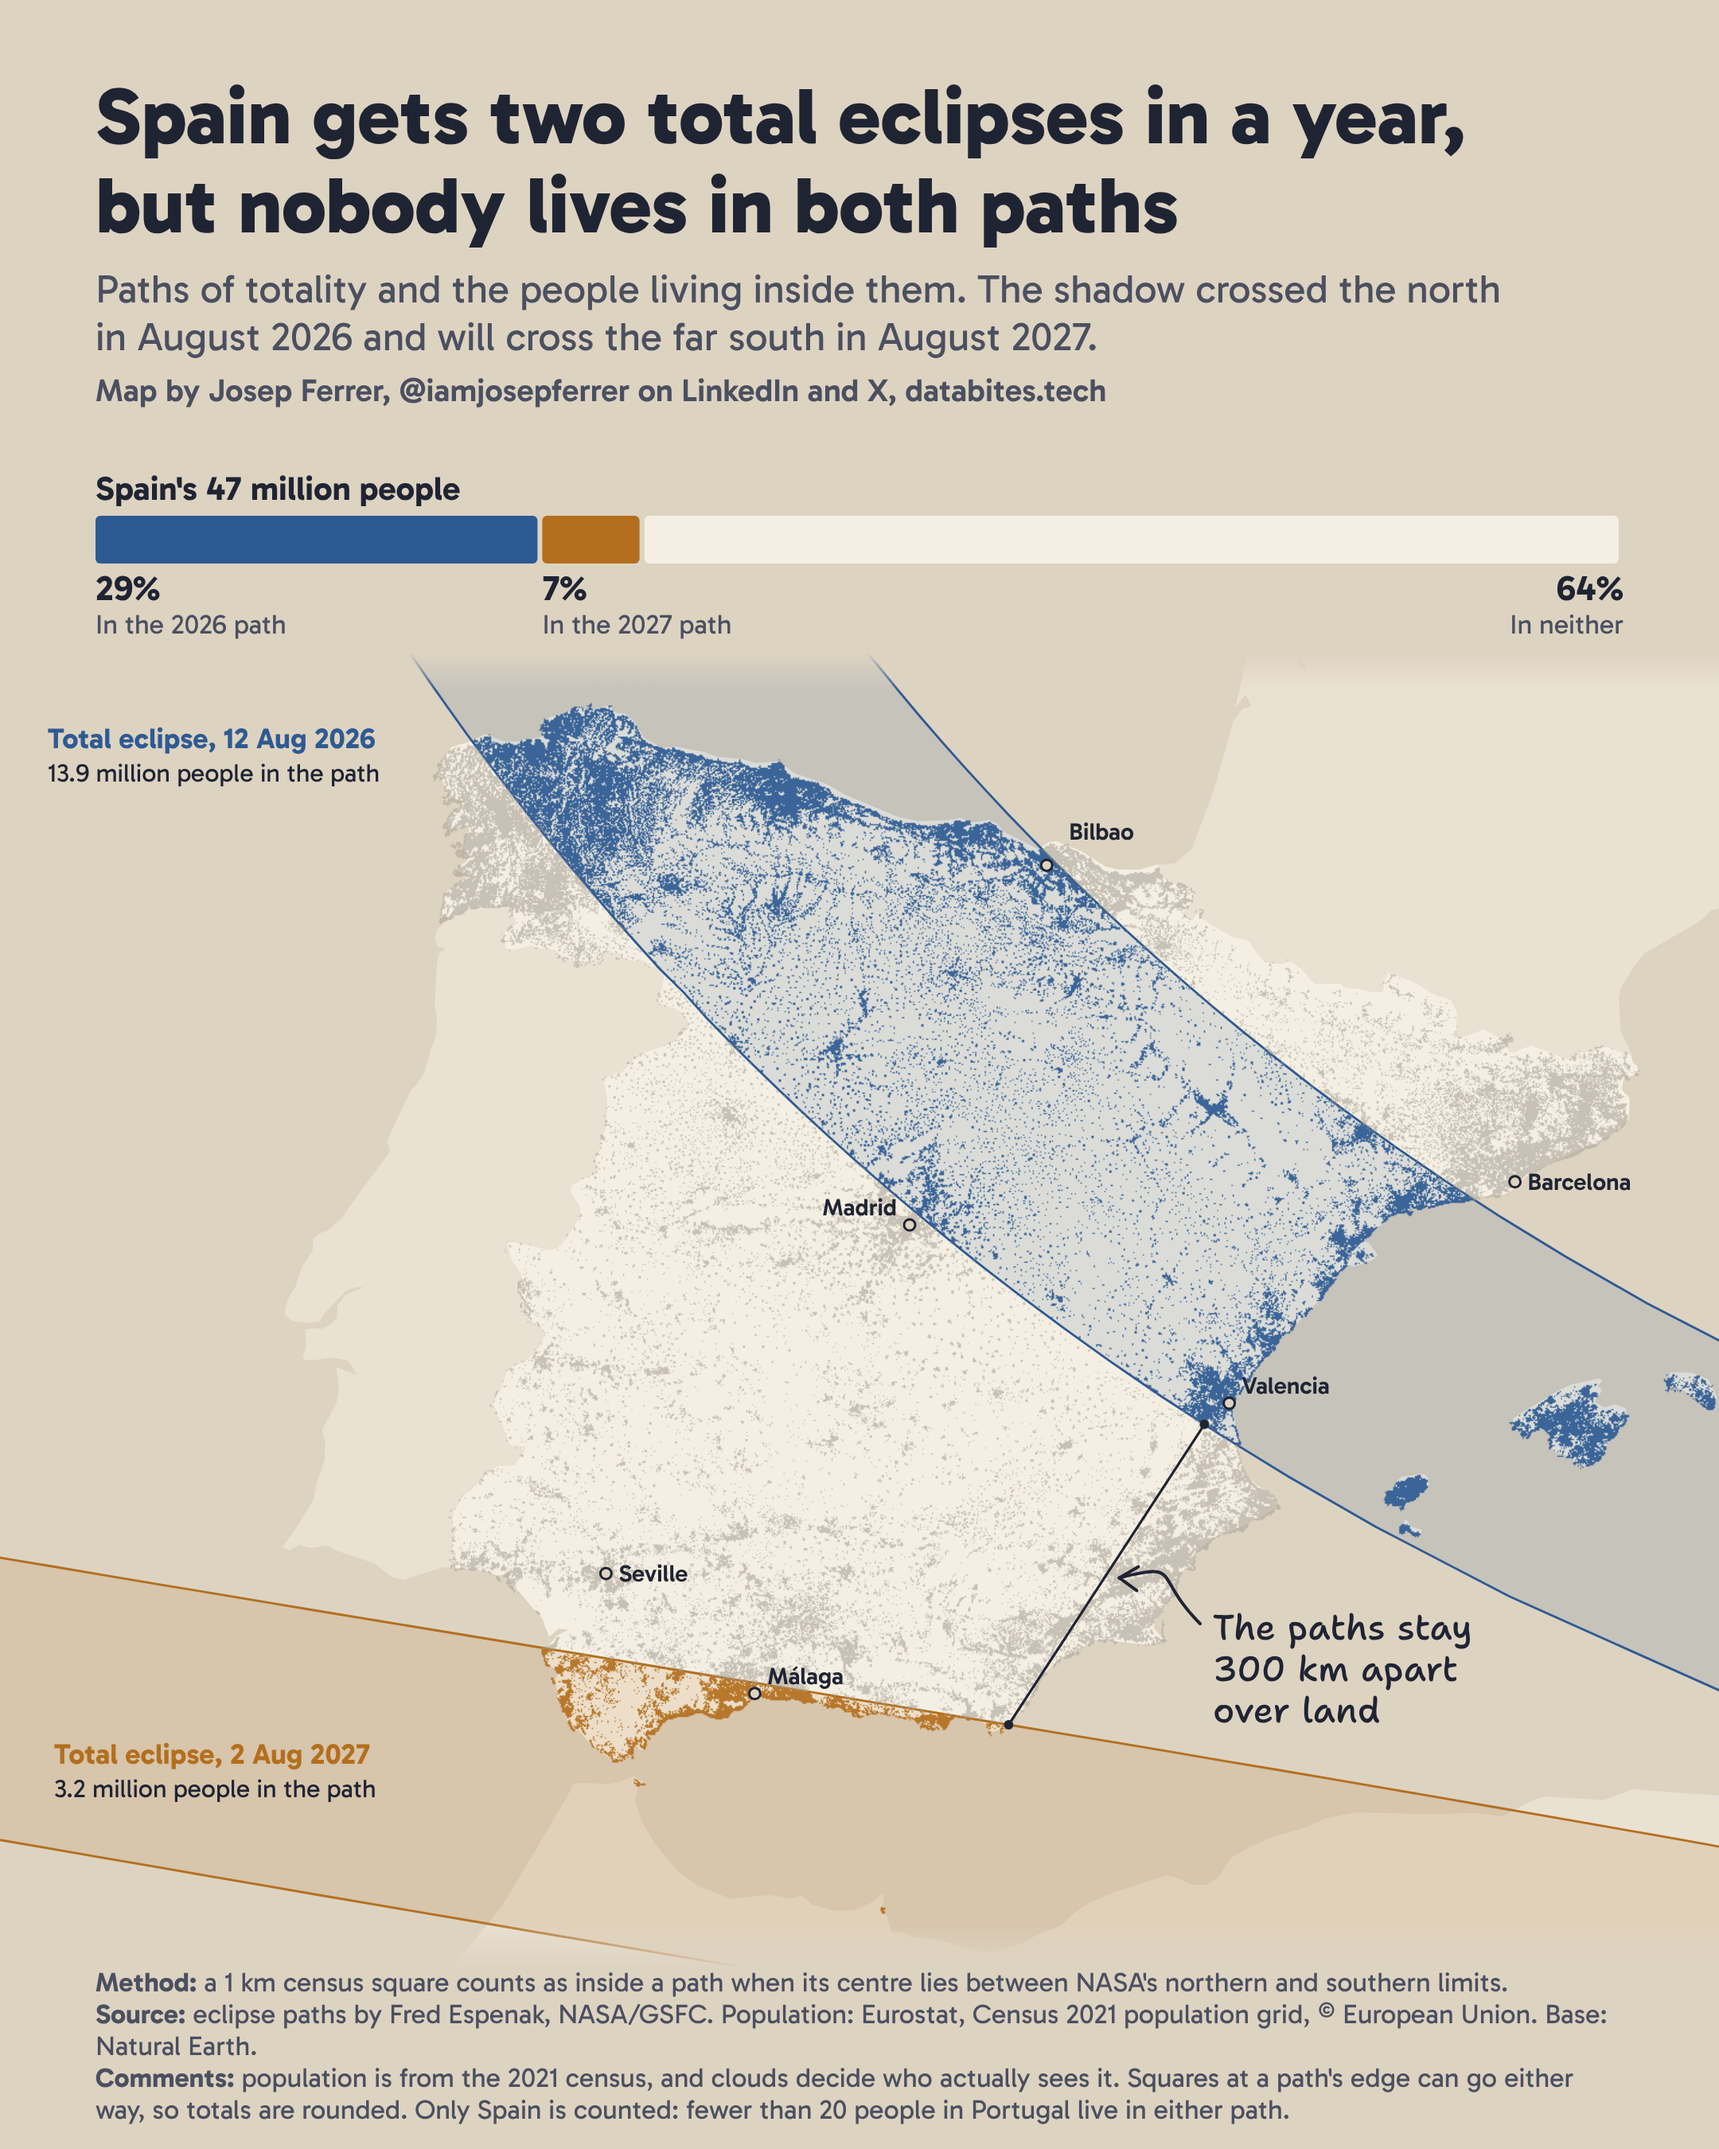
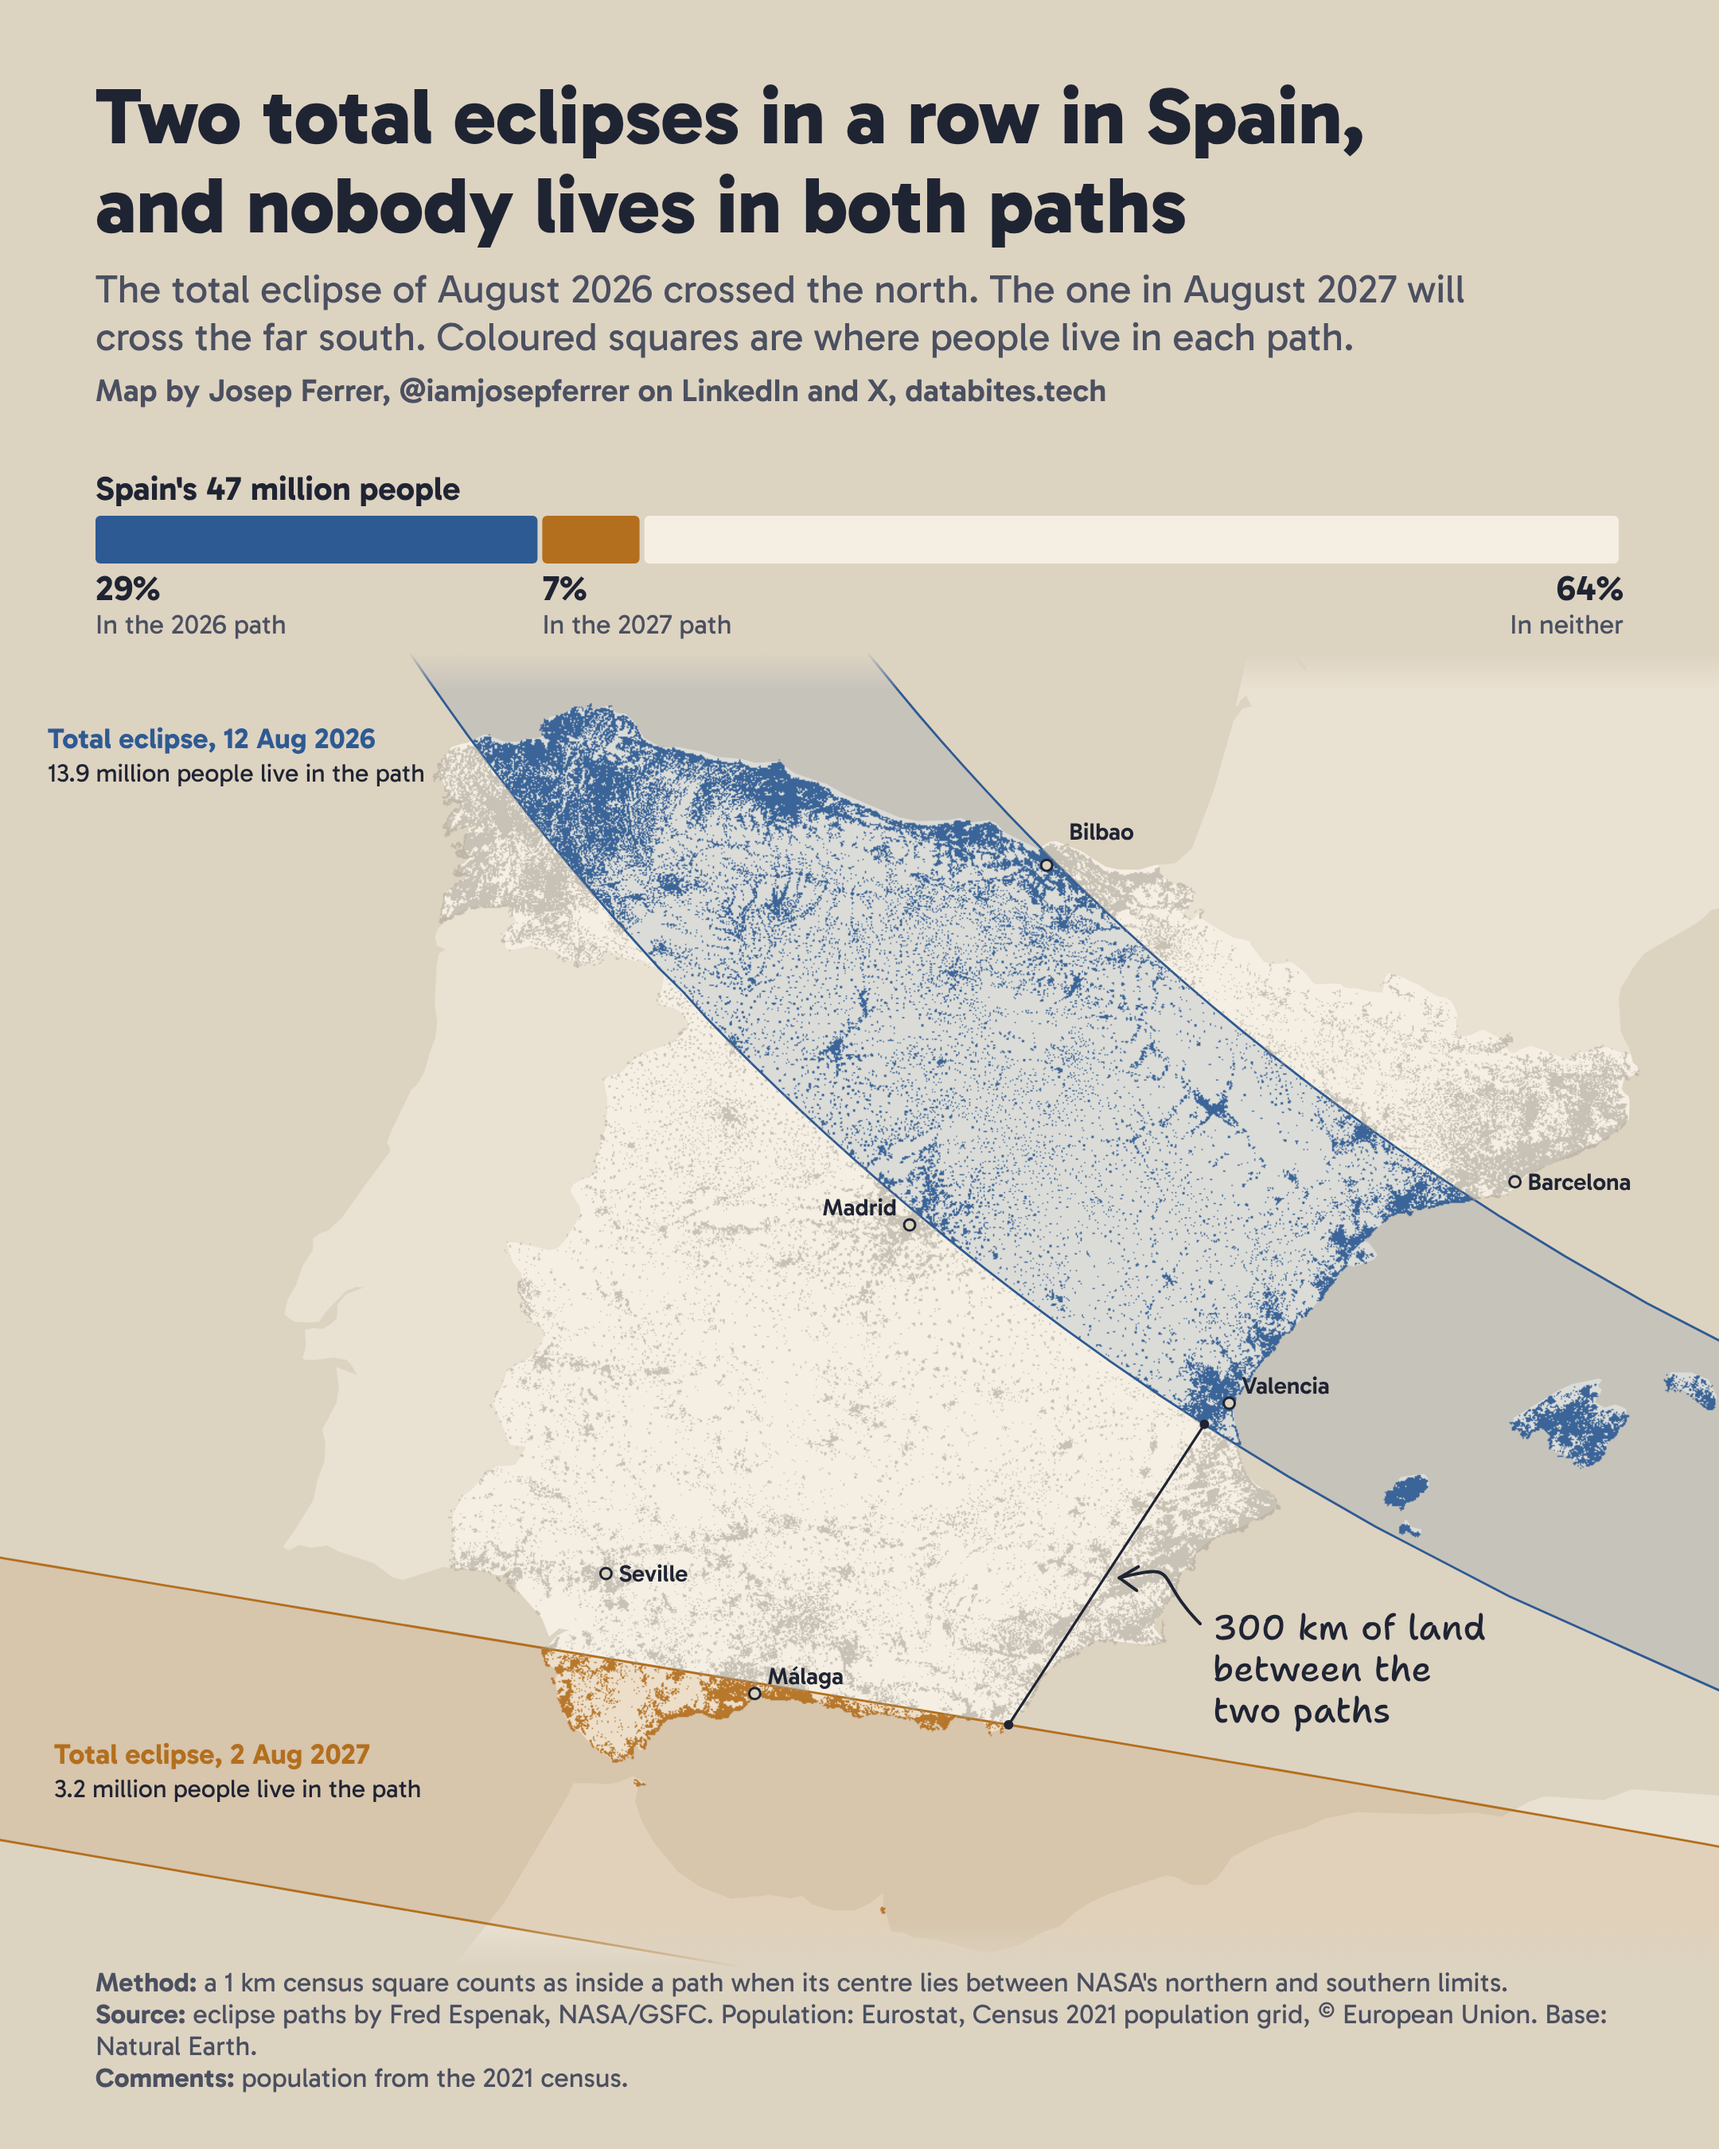
Day 5: new headline and plainer text

diff --git a/2026/day05_sight/day05_sight.py b/2026/day05_sight/day05_sight.py
@@ -166,13 +166,13 @@ PATH_LABELS = {"2026": (30, 470, "start"), "2027": (34, 1108, "start")}
 for year, (x, y, anchor) in PATH_LABELS.items():
     total = {"2026": in_2026, "2027": in_2027}[year]
     svg.append(text(x, y, ECLIPSES[year][1], 18, 700, ECLIPSES[year][2], anchor))
-    svg.append(text(x, y + 21, f"{total / 1e6:.1f} million people in the path", 16, 400, C["ink"], anchor))
+    svg.append(text(x, y + 21, f"{total / 1e6:.1f} million people live in the path", 16, 400, C["ink"], anchor))
 
 # 6. One handwritten note in the Mediterranean, with a short arrow to the gap
 note_x, note_y = 762, 1030
 svg.append(
     f'<text class="note" x="{note_x}" y="{note_y}" font-size="22" fill="{C["ink"]}">'
-    f'<tspan x="{note_x}">The paths stay</tspan><tspan x="{note_x}" dy="26">{round(gap_km, -1):.0f} km apart</tspan><tspan x="{note_x}" dy="26">over land</tspan></text>'
+    f'<tspan x="{note_x}">{round(gap_km, -1):.0f} km of land</tspan><tspan x="{note_x}" dy="26">between the</tspan><tspan x="{note_x}" dy="26">two paths</tspan></text>'
 )
 x0, y0 = note_x - 8, note_y - 10
 x1, y1 = (gx0 + gx1) / 2 + 8, (gy0 + gy1) / 2 + 2
@@ -198,15 +198,15 @@ for share, colour, label in segments:
     x += width
 
 # 8. Headline, dek, byline and footer
-svg.append(text(60, 90, "Spain gets two total eclipses in a year,", 50, 800))
-svg.append(text(60, 146, "but nobody lives in both paths", 50, 800))
-svg.append(text(60, 190, "Paths of totality and the people living inside them. The shadow crossed the north", 25, 400, C["ink2"]))
-svg.append(text(60, 220, "in August 2026 and will cross the far south in August 2027.", 25, 400, C["ink2"]))
+svg.append(text(60, 90, "Two total eclipses in a row in Spain,", 50, 800))
+svg.append(text(60, 146, "and nobody lives in both paths", 50, 800))
+svg.append(text(60, 190, "The total eclipse of August 2026 crossed the north. The one in August 2027 will", 25, 400, C["ink2"]))
+svg.append(text(60, 220, "cross the far south. Coloured squares are where people live in each path.", 25, 400, C["ink2"]))
 svg.append(byline(252))
 FOOTER = [
     ("Method:", "a 1 km census square counts as inside a path when its centre lies between NASA's northern and southern limits."),
     ("Source:", "eclipse paths by Fred Espenak, NASA/GSFC. Population: Eurostat, Census 2021 population grid, © European Union. Base: Natural Earth."),
-    ("Comments:", "population is from the 2021 census, and clouds decide who actually sees it. Squares at a path's edge can go either way, so totals are rounded. Only Spain is counted: fewer than 20 people in Portugal live in either path."),
+    ("Comments:", "population from the 2021 census."),
 ]
 svg += footer(FOOTER, x=60, y=1251, width=960, size=17, line_height=20)
 

diff --git a/2026/README.md b/2026/README.md
@@ -6,7 +6,7 @@ One map a day about Europe, each built around a clear finding.
 - [Day 2, Lines: Europe's biggest port is the nearest one for under 4% of city dwellers](#day-2-lines)
 - [Day 3, Polygons: half of Europe's tourist nights happen in just 102 of its 1,247 regions](#day-3-polygons)
 - [Day 4, Clusters: a third of the land in the EU, Norway and Switzerland is just three empty patches](#day-4-clusters)
-- [Day 5, Senses, Sight: Spain gets two total eclipses in a year, but nobody lives in both paths](#day-5-senses-sight)
+- [Day 5, Senses, Sight: two total eclipses in a row in Spain, and nobody lives in both paths](#day-5-senses-sight)
 - [Data sources and licenses](#data-sources-and-licenses)
 - [How to recreate the maps](#how-to-recreate-the-maps)
 
@@ -185,11 +185,11 @@ The Iberian patch covers 72% of Spain and reaches from Portugal into France, so 
 
 ## Day 5: Senses, Sight
 
-![Spain gets two total eclipses in a year, but nobody lives in both paths](day05_sight/day05_sight.png)
+![Two total eclipses in a row in Spain, and nobody lives in both paths](day05_sight/day05_sight.png)
 
 ### What it shows
 
-The moon's shadow crossed northern Spain on 12 August 2026 and will cross the far south on 2 August 2027: two total solar eclipses in under a year. Yet nobody lives inside both paths of totality: over land, they never come within 300 km of each other.
+The total eclipse of 12 August 2026 crossed northern Spain, and the next total eclipse, on 2 August 2027, will cross the far south. Nobody in Spain lives inside both paths. Over land, the two paths never come closer than 300 km.
 
 | Eclipse | People in Spain in the path | Share of Spain's 47.4 million |
 | --- | ---: | ---: |
@@ -208,9 +208,9 @@ The 2026 path covered cities such as A Coruña, Oviedo, Bilbao, Valladolid, Zara
 
 ### Limitations
 
-- **Edges:** squares right at a path's edge can go either way, so the totals are rounded to 0.1 million. The path widths match NASA's tables (about 290 km over Spain in 2026, 240 km in 2027).
+- **Edges:** a square counts by its centre, so totals are rounded to 0.1 million. The path widths match NASA's tables (about 290 km over Spain in 2026, 240 km in 2027).
 - **Population is from 2021,** and it counts residents, not the visitors who travelled to see the eclipse.
-- **Seeing it:** being in the path is not the same as seeing totality. Clouds, and the sun being low in the sky in 2026, decide that.
+- **Seeing it:** being in the path is not the same as seeing totality. Clouds, and the low sun in 2026, decide that.
 - **Coverage:** the grid covers the EU, so people in Morocco under the 2027 path are not counted.
 
 **Files:** [`day05_sight.py`](day05_sight/day05_sight.py) does everything, and [`results.csv`](day05_sight/results.csv) lists the people in each path.
@@ -245,10 +245,12 @@ Follow the setup in the [main README](../README.md), then run:
 ```bash
 python 2026/day01_points/day01_points.py
 python 2026/day02_lines/day02_lines.py
+python 2026/day05_sight/day05_sight.py
 ```
 
 - **Day 1** takes about a minute and downloads about 50 MB. Recalculating Europe's total with `compute_europe_population.py` is optional and downloads about 475 MB.
 - **Day 2** sends about 830 requests to the OSRM demo server the first time, at no more than one per second, so it takes around 25 minutes. Results are saved in `cache/`, so you can stop and resume it. The demo server is for reasonable, non-commercial use, so client work needs its own OSRM instance.
+- **Day 5** uses the same census grid as Day 4 and three small NASA pages, and takes about a minute.
 
 ## License
 
